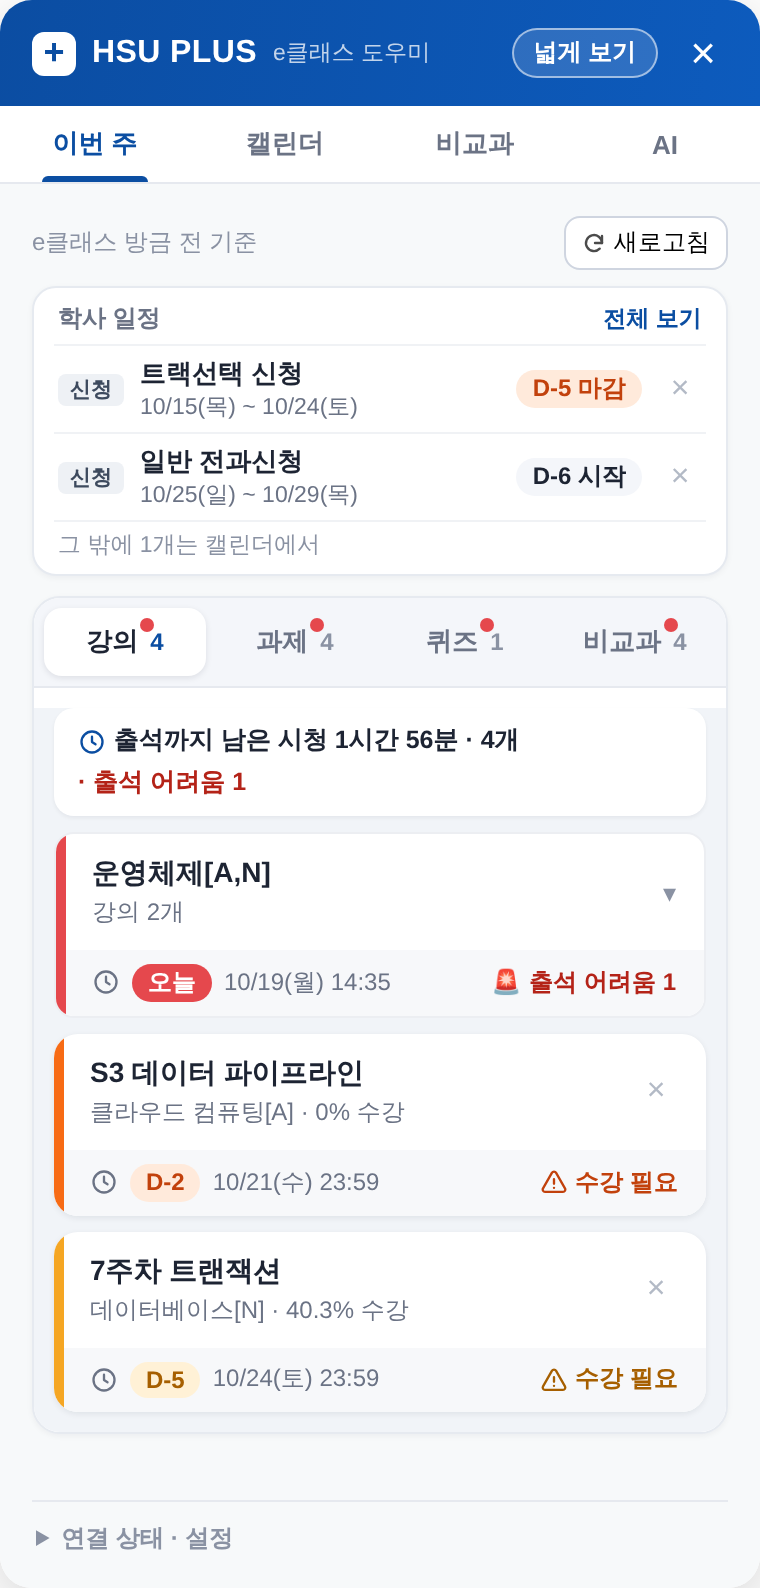
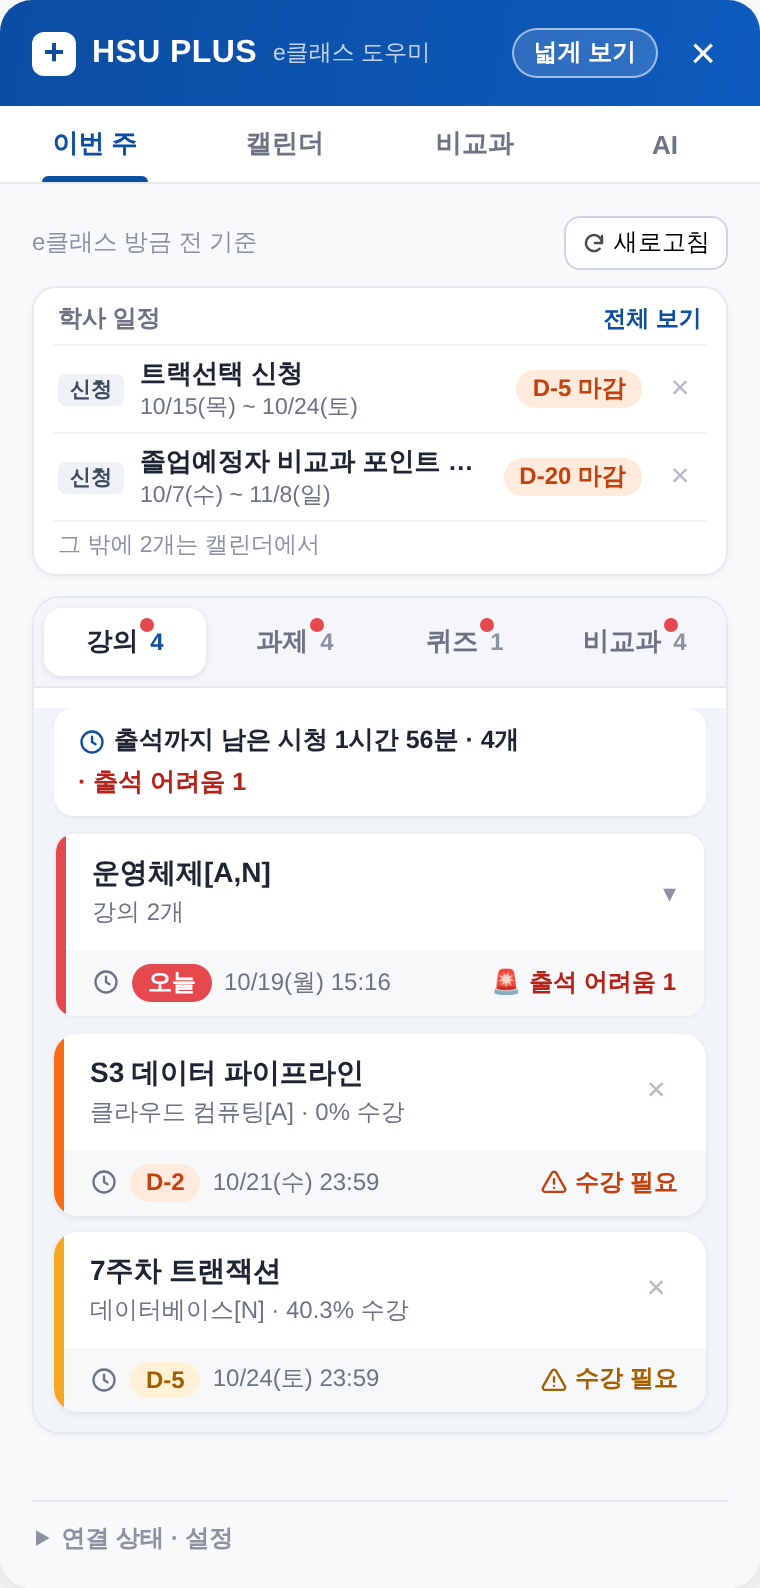
월간 캘린더: 며칠 이어지는 일정을 이어진 막대로
- 3주 이하로 며칠 이어지는 종일 일정(학사일정, 며칠짜리 비교과)을 칸을 가로지르는 막대로 표시
- 주가 바뀌면 다음 줄에서 이어짐(끊긴 쪽은 각지게), 막대 줄은 한 주 2줄까지, 넘치면 그 날짜 칸 +N
- 3주 넘는 긴 일정은 시작 날 "이름", 끝 날 "이름 끝"만
- 막대 위를 눌러도 그 날짜 목록이 열림
- 화면 예시에 긴 학사일정 추가, README 그림 2장 갱신, DEVLOG 기록

Changed region(s): [[0.1816, 0.2777, 0.575, 0.3394], [0.6658, 0.2777, 0.8474, 0.3394]]

diff --git a/content/main.js b/content/main.js
@@ -659,8 +659,15 @@
   }
 
   // 며칠씩 이어지는 학사일정(신청 기간 등)은 매일 칸을 채우면 정신없어서 첫날·끝날에만 표시 (그날 목록에는 매일 나옴)
-  const pillOn = (x, d) => x.kind !== "acad" || sameDay(x.start, x.end) || sameDay(d, x.start) || sameDay(d, x.end);
-  const pillName = (x, d) => (x.kind === "acad" && !sameDay(x.start, x.end) && sameDay(d, x.end) ? `${shortTitle(x.title)} 끝` : shortTitle(x.title));
+  // 월간: 며칠 이어지는 종일 일정 중 3주(21일) 이하는 막대, 그보다 긴 것은 시작·끝 날에만 (10/20 사용자)
+  const BAR_MAX_DAYS = 21;
+  const BAR_LANES = 2; // 한 주에 막대 줄은 2줄까지, 넘치면 그 날짜 칸에 +N
+  const spanDays = (x) => Math.round((dayStart(x.end) - dayStart(x.start)) / 864e5) + 1;
+  const isBar = (x) => x.allDay && x.kind !== "due" && !x.rough && spanDays(x) > 1 && spanDays(x) <= BAR_MAX_DAYS;
+  const isLong = (x) => x.allDay && spanDays(x) > BAR_MAX_DAYS;
+  // 주간 종일 줄은 학사일정만 시작·끝 날에(예전대로), 월간은 긴 일정만 시작·끝 날에
+  const pillOn = (x, d) => (x.kind !== "acad" && !isLong(x)) || sameDay(x.start, x.end) || sameDay(d, x.start) || sameDay(d, x.end);
+  const pillName = (x, d) => (!sameDay(x.start, x.end) && (x.kind === "acad" || isLong(x)) && sameDay(d, x.end) ? `${shortTitle(x.title)} 끝` : shortTitle(x.title));
 
   // ---- 화면 상태 ----
   let calMode = "week"; // week | month
@@ -1209,32 +1216,68 @@
 
     const grid = el("div", { class: "mon" });
     for (const w of ["월", "화", "수", "목", "금", "토", "일"]) grid.appendChild(el("div", { class: "mon-wd", text: w }));
-    for (let d = new Date(gridStart); d < gridEnd; d = addDays(d, 1)) {
-      const dd = new Date(d);
-      const list = [...allDayOf(dd, items.filter((x) => x.allDay)), ...items.filter((x) => !x.allDay && sameDay(x.start, dd))];
-      const dues = list.filter((x) => x.kind === "due");
-      const others = list.filter((x) => x.kind !== "due" && pillOn(x, dd)).sort((a, b) => a.start - b.start);
-      // 칸이 좁아서 이름은 짧게(학기·연도 머리말 뗌), 시각은 넓게 보기에서만. 원래 이름·시각은 마우스 올리기와 그날 목록에서
-      const pills = others.slice(0, dues.length ? 2 : 3).map((x) =>
-        el("span", { class: `mon-pill k-${x.kind}` }, [x.allDay ? null : el("span", { class: "tm", text: hm(x.start) }), el("span", { class: "nm", text: pillName(x, dd) })])
-      );
-      if (dues.length) pills.push(el("span", { class: `mon-pill due r${riskTier(dues.map((x) => x.due).sort()[0])}` }, [el("span", { class: "nm", text: `마감 ${dues.length}` })]));
-      const more = others.length - (dues.length ? 2 : 3);
-      if (more > 0) pills.push(el("span", { class: "ad-more", text: `+${more}` }));
-      grid.appendChild(
-        el(
-          "button",
-          {
-            class: ["mon-cell", dd.getMonth() !== m - 1 ? "out" : "", sameDay(dd, now) ? "today" : "", dayStart(dd) < dayStart(now) ? "past" : "", calDay === ymd(dd) ? "picked" : "", dd.getDay() === 0 || dd.getDay() === 6 ? "wkend" : ""].filter(Boolean).join(" "),
+    // 며칠 이어지는 일정(3주 이하)은 칸을 가로지르는 막대 하나로 (10/20 사용자). 주가 바뀌면 다음 줄에서 이어짐.
+    //  3주 넘는 긴 일정(방학 등)은 막대 대신 시작·끝 날에만 "이름" / "이름 끝" (pillOn)
+    const barItems = items.filter((x) => isBar(x)).sort((a, b) => a.start - b.start || b.end - a.end);
+    for (let ws = new Date(gridStart); ws < gridEnd; ws = addDays(ws, 7)) {
+      const we = addDays(ws, 6);
+      // 이 주에 걸친 막대 → 줄(lane) 나누기: 겹치지 않으면 같은 줄
+      const lanes = [];
+      const hidden = []; // 줄이 모자라 못 그린 막대 (그 날짜 칸의 +N에 셈)
+      for (const x of barItems) {
+        if (!(x.start <= we && dayStart(x.end) >= ws)) continue;
+        const a = Math.max(0, Math.round((dayStart(x.start) - ws) / 864e5));
+        const b = Math.min(6, Math.round((dayStart(x.end) - ws) / 864e5));
+        const seg = { x, a, b, contL: dayStart(x.start) < ws, contR: dayStart(x.end) > we };
+        const lane = lanes.findIndex((L) => L.every((o) => o.b < a || o.a > b));
+        if (lane >= 0) lanes[lane].push(seg);
+        else if (lanes.length < BAR_LANES) lanes.push([seg]);
+        else hidden.push(seg);
+      }
+      const nL = lanes.length;
+      const week = el("div", { class: "mon-week", style: `grid-template-rows: 20px${nL ? ` repeat(${nL}, 17px)` : ""} minmax(0, 1fr)` });
+      for (let i = 0; i < 7; i++) {
+        const dd = addDays(ws, i);
+        const list = [...allDayOf(dd, items.filter((x) => x.allDay)), ...items.filter((x) => !x.allDay && sameDay(x.start, dd))];
+        const dues = list.filter((x) => x.kind === "due");
+        const others = list.filter((x) => x.kind !== "due" && !isBar(x) && pillOn(x, dd)).sort((a, b) => a.start - b.start);
+        const cap = Math.max(1, (dues.length ? 2 : 3) - nL);
+        const out = dd.getMonth() !== m - 1;
+        const past = dayStart(dd) < dayStart(now);
+        // 칸이 좁아서 이름은 짧게(학기·연도 머리말 뗌), 시각은 넓게 보기에서만. 원래 이름·시각은 마우스 올리기와 그날 목록에서
+        const pills = others.slice(0, cap).map((x) =>
+          el("span", { class: `mon-pill k-${x.kind}` }, [x.allDay ? null : el("span", { class: "tm", text: hm(x.start) }), el("span", { class: "nm", text: pillName(x, dd) })])
+        );
+        if (dues.length) pills.push(el("span", { class: `mon-pill due r${riskTier(dues.map((x) => x.due).sort()[0])}` }, [el("span", { class: "nm", text: `마감 ${dues.length}` })]));
+        const more = others.length - cap + hidden.filter((g) => g.a <= i && i <= g.b).length;
+        if (more > 0) pills.push(el("span", { class: "ad-more", text: `+${more}` }));
+        week.appendChild(
+          el("button", {
+            class: ["mon-cell", out ? "out" : "", sameDay(dd, now) ? "today" : "", past ? "past" : "", calDay === ymd(dd) ? "picked" : "", dd.getDay() === 0 || dd.getDay() === 6 ? "wkend" : ""].filter(Boolean).join(" "),
+            style: `grid-column: ${i + 1}`,
             title: list.length ? list.map((x) => `${x.kind === "due" ? "[마감] " : x.allDay ? "" : hm(x.start) + " "}${x.title}`).join("\n") : null,
             onclick: () => {
               calDay = calDay === ymd(dd) ? null : ymd(dd);
               renderCalendar();
             },
-          },
-          [el("span", { class: "mon-num", text: String(dd.getDate()) }), ...pills]
-        )
-      );
+          }, [el("span", { class: "mon-num", text: String(dd.getDate()) })])
+        );
+        if (pills.length) week.appendChild(el("div", { class: ["mon-items", out ? "out" : "", past ? "past" : ""].filter(Boolean).join(" "), style: `grid-column: ${i + 1}; grid-row: ${nL + 2}` }, pills));
+      }
+      lanes.forEach((L, li) => {
+        for (const g of L) {
+          const ended = dayStart(g.x.end) < dayStart(now);
+          week.appendChild(
+            el("span", {
+              class: ["mon-bar", `k-${g.x.kind}`, g.contL ? "cont-l" : "", g.contR ? "cont-r" : "", ended ? "past" : ""].filter(Boolean).join(" "),
+              style: `grid-column: ${g.a + 1} / ${g.b + 2}; grid-row: ${li + 2}`,
+              title: `${g.x.title}\n${dayLabel(g.x.start)} ~ ${dayLabel(g.x.end)}`,
+              text: shortTitle(g.x.title),
+            })
+          );
+        }
+      });
+      grid.appendChild(week);
     }
     parts.push(grid);
     parts.push(

diff --git a/content/panel.css b/content/panel.css
@@ -783,3 +783,22 @@ button.ai-pick { width: 100%; font: inherit; text-align: left; cursor: pointer; 
 
 /* ---------- 비교과 카드 포인트 (신청·내 비교과 같은 모양, 조금 크게) 10/20 ---------- */
 .tcard .badge.program { display: inline-block; align-self: flex-start; margin-top: 1px; font-size: 13px; font-weight: 800; padding: 4px 10px; border-radius: 8px; letter-spacing: -0.01em; }
+
+/* ---------- 월간: 며칠 이어지는 일정 = 칸을 가로지르는 막대 (3주 이하) 10/20 ----------
+   한 주 = 한 줄 그리드. 날짜 칸은 위아래 전체, 그 위에 막대 줄(2줄까지)과 그날 일정이 겹쳐 놓임(누르면 아래 날짜 칸이 눌림) */
+.mon-week { grid-column: 1 / -1; display: grid; grid-template-columns: repeat(7, minmax(0, 1fr)); column-gap: 3px; row-gap: 2px; }
+.mon-week > .mon-cell { grid-row: 1 / -1; }
+.mon-items { z-index: 1; display: flex; flex-direction: column; gap: 2px; min-width: 0; padding: 0 3px 3px; pointer-events: none; }
+.mon-items.out { opacity: 0.55; }
+.mon-items.past:not(.out) .mon-pill { opacity: 0.6; }
+.mon-bar {
+  z-index: 1; align-self: center; min-width: 0; height: 16px; margin: 0 3px; padding: 0 5px; border-radius: 4px;
+  font-size: 10px; font-weight: 700; line-height: 16px; white-space: nowrap; overflow: hidden; text-overflow: ellipsis; pointer-events: none;
+}
+.mon-bar.cont-l { margin-left: 0; border-top-left-radius: 0; border-bottom-left-radius: 0; }
+.mon-bar.cont-r { margin-right: 0; border-top-right-radius: 0; border-bottom-right-radius: 0; }
+.mon-bar.k-acad { background: #e3e8ef; color: #34405a; }
+.mon-bar.k-prog { background: #dce8ff; color: var(--ot-primary-dark); }
+.mon-bar.k-ev { background: var(--ot-ev-bg); color: var(--ot-ev); }
+.mon-bar.past { opacity: 0.6; }
+.panel.wide .mon-bar { font-size: 11px; }

diff --git a/docs/DEVLOG.md b/docs/DEVLOG.md
@@ -196,3 +196,4 @@
   - (사용자) 비교과 일정 분류는 완벽하지 않으니 링크로 확인하게: 신청 탭 카드마다 "상세 일정 확인 ↗"(학교 상세 화면), 캘린더 그날 목록의 비교과에도, 신청·내 비교과 아래 안내 문구
   - (사용자) 맨 아래 안내 문구는 카드 40개를 지나야 보여서 아무도 못 봄 → 위쪽 줄(기준 시각·새로고침 옆)에 동그라미 i 버튼. 마우스를 올리거나 키보드로 가면 설명 말풍선. 비교과(신청/내 비교과에 맞는 문구)·캘린더 탭. 말풍선은 윗줄 너비로 펼쳐서 i 위치와 상관없이 잘리지 않음
   - (사용자) 내 비교과(시작 대기·진행 중·온라인)에도 몇 점짜리인지: 카드 오른쪽 위에 신청 탭과 같은 초록 "Np". 신청 탭 것까지 조금 크게(11px → 13px). 마이페이지 목록의 포인트 칸은 이수 전엔 0이라(실제 확인) 공개 상세 화면 회차 마일리지를 씀(내가 신청한 회차가 표시되면 그 회차만, 회차끼리 다르면 "10~20p")
+  - (사용자) 월간 캘린더에서 며칠 이어지는 일정(중간고사·수업평가 기간·며칠짜리 비교과 등)을 칸마다 따로 쓰지 않고 칸을 가로지르는 막대 하나로. 주가 바뀌면 다음 줄에서 이어지고(끊긴 쪽은 각지게), 막대 줄은 한 주에 2줄까지(넘치면 그 날짜 칸 +N). 3주 넘는 긴 일정(방학·긴 신청 기간)은 예전처럼 시작 날 "이름", 끝 날 "이름 끝"만. 막대 위를 눌러도 그 날짜가 열림. 주간 종일 줄은 그대로
